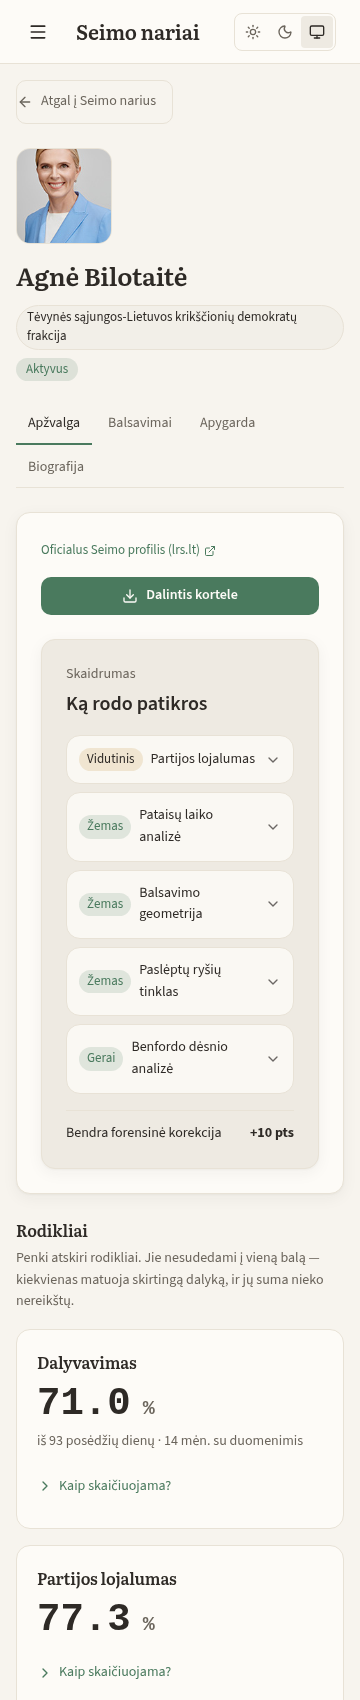
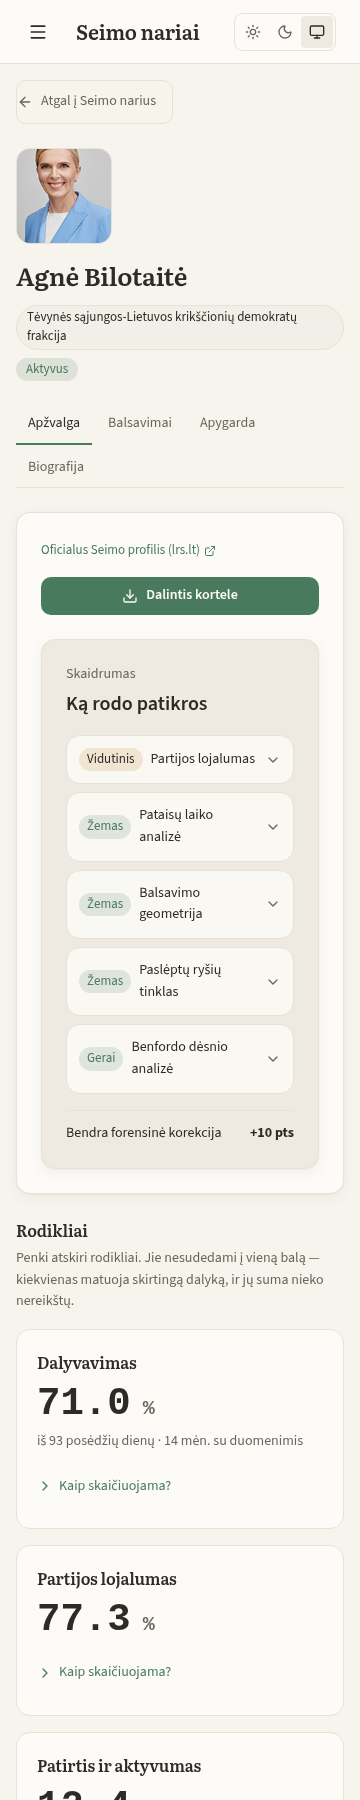
fix(hub): remove a composite invented in place, and widen the guard
The 360px verification pass caught a panel the recon table and the §3
tests both missed. „Skaidrumo indeksas" on the transparency hub ranked
named members by `100 - attendance` — a composite computed locally,
under a label describing something else entirely, presented as an index.

No keyword search would have found it: it never uses the word
`integrity_score`, never touches the retired endpoint, and its label
matches a metric that lives elsewhere. It was found by looking at the
rendered page.

The numbers it was built from are already on the same page, in
„Įspėjimai", stated as what they are: „Žemas lankomumas: 42 %".

The §3.1 guard now also asserts that no surface computes `100 - <a
metric>`. Named composites were the easy half; this is the shape the
next one will take.

205 dashboard tests. 360px checks captured for profile, leaderboard,
hub and methodology.

diff --git a/Seimas.v2/dashboard/src/views/SkaidrumasHubView.tsx b/Seimas.v2/dashboard/src/views/SkaidrumasHubView.tsx
@@ -350,27 +350,11 @@ export default function SkaidrumasHubView() {
           </div>
         </div>
 
-        <div className="rounded-xl border border-border bg-card p-4">
-          <div className="flex items-center gap-2 mb-4">
-            <ShieldAlert className="w-4 h-4 text-primary" />
-            <h2 className="text-base font-semibold text-foreground">Skaidrumo indeksas</h2>
-          </div>
-          <div className="space-y-2">
-            {riskyMps.map((mp) => {
-              const risk = hasAttendance(mp) ? Math.round(100 - mp.attendance!) : null;
-              return (
-                <div key={mp.id} className="flex items-center justify-between border-b border-border/60 py-2">
-                  <div>
-                    <div className="text-sm font-medium">{mp.name}</div>
-                    <div className="text-xs text-muted-foreground">{mp.party || 'Nežinoma'}</div>
-                  </div>
-                  <span className="text-sm font-mono text-primary">{risk}</span>
-                </div>
-              );
-            })}
-          </div>
-        </div>
-
+        {/* A „Skaidrumo indeksas" panel stood here ranking named members by
+            `100 - attendance` — a composite invented locally, under a label
+            that described something else entirely, presented as an index. The
+            low-attendance figures it was built from are already on this page,
+            in „Įspėjimai", stated as what they are. */}
         <div className="rounded-xl border border-border bg-card p-4">
           <div className="flex items-center gap-2 mb-4">
             <Radio className="w-4 h-4 text-primary" />

diff --git a/Seimas.v2/dashboard/src/i18n/noVerdictsOnSurfaces.test.ts b/Seimas.v2/dashboard/src/i18n/noVerdictsOnSurfaces.test.ts
@@ -51,6 +51,11 @@ describe("no verdict reaches a surface", () => {
     ["artifacts", /["']artifacts["']/],
     ["the heroes/watchlist endpoint", /heroes-villains|getAccountabilitySnapshot/],
     ["a composite-derived rank", /integrity_score|risk_score/],
+    // Named composites are the easy half. This catches one invented in place:
+    // a „Skaidrumo indeksas" panel ranked members by `100 - attendance`, under
+    // a label describing something else, and no keyword search would have
+    // found it.
+    ["a locally invented composite", /100\s*-\s*(?:mp\.|row\.|item\.)?\w*[Aa]ttendance/],
   ])("renders no %s", (_label, pattern) => {
     const offenders = files.filter((f) => pattern.test(code(f)));
     expect(offenders.map((f) => f.replace(SRC, "src"))).toEqual([]);
